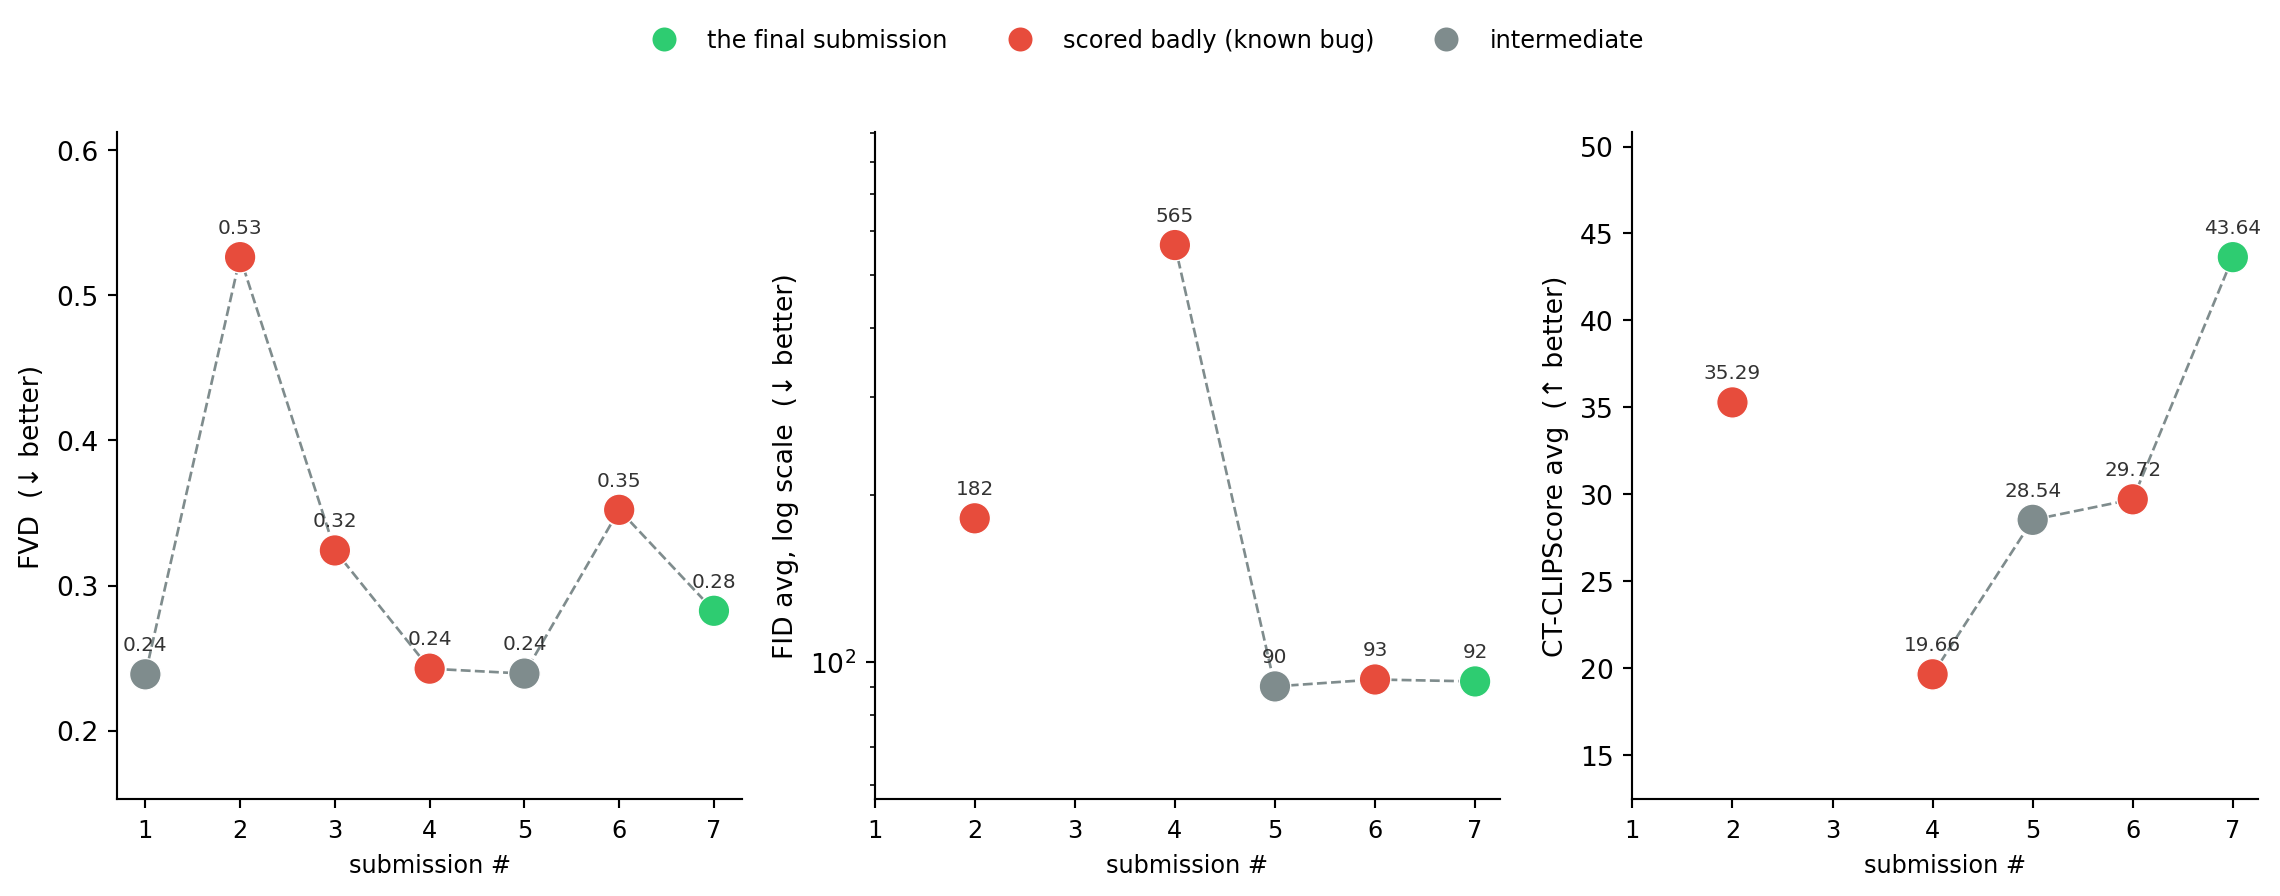
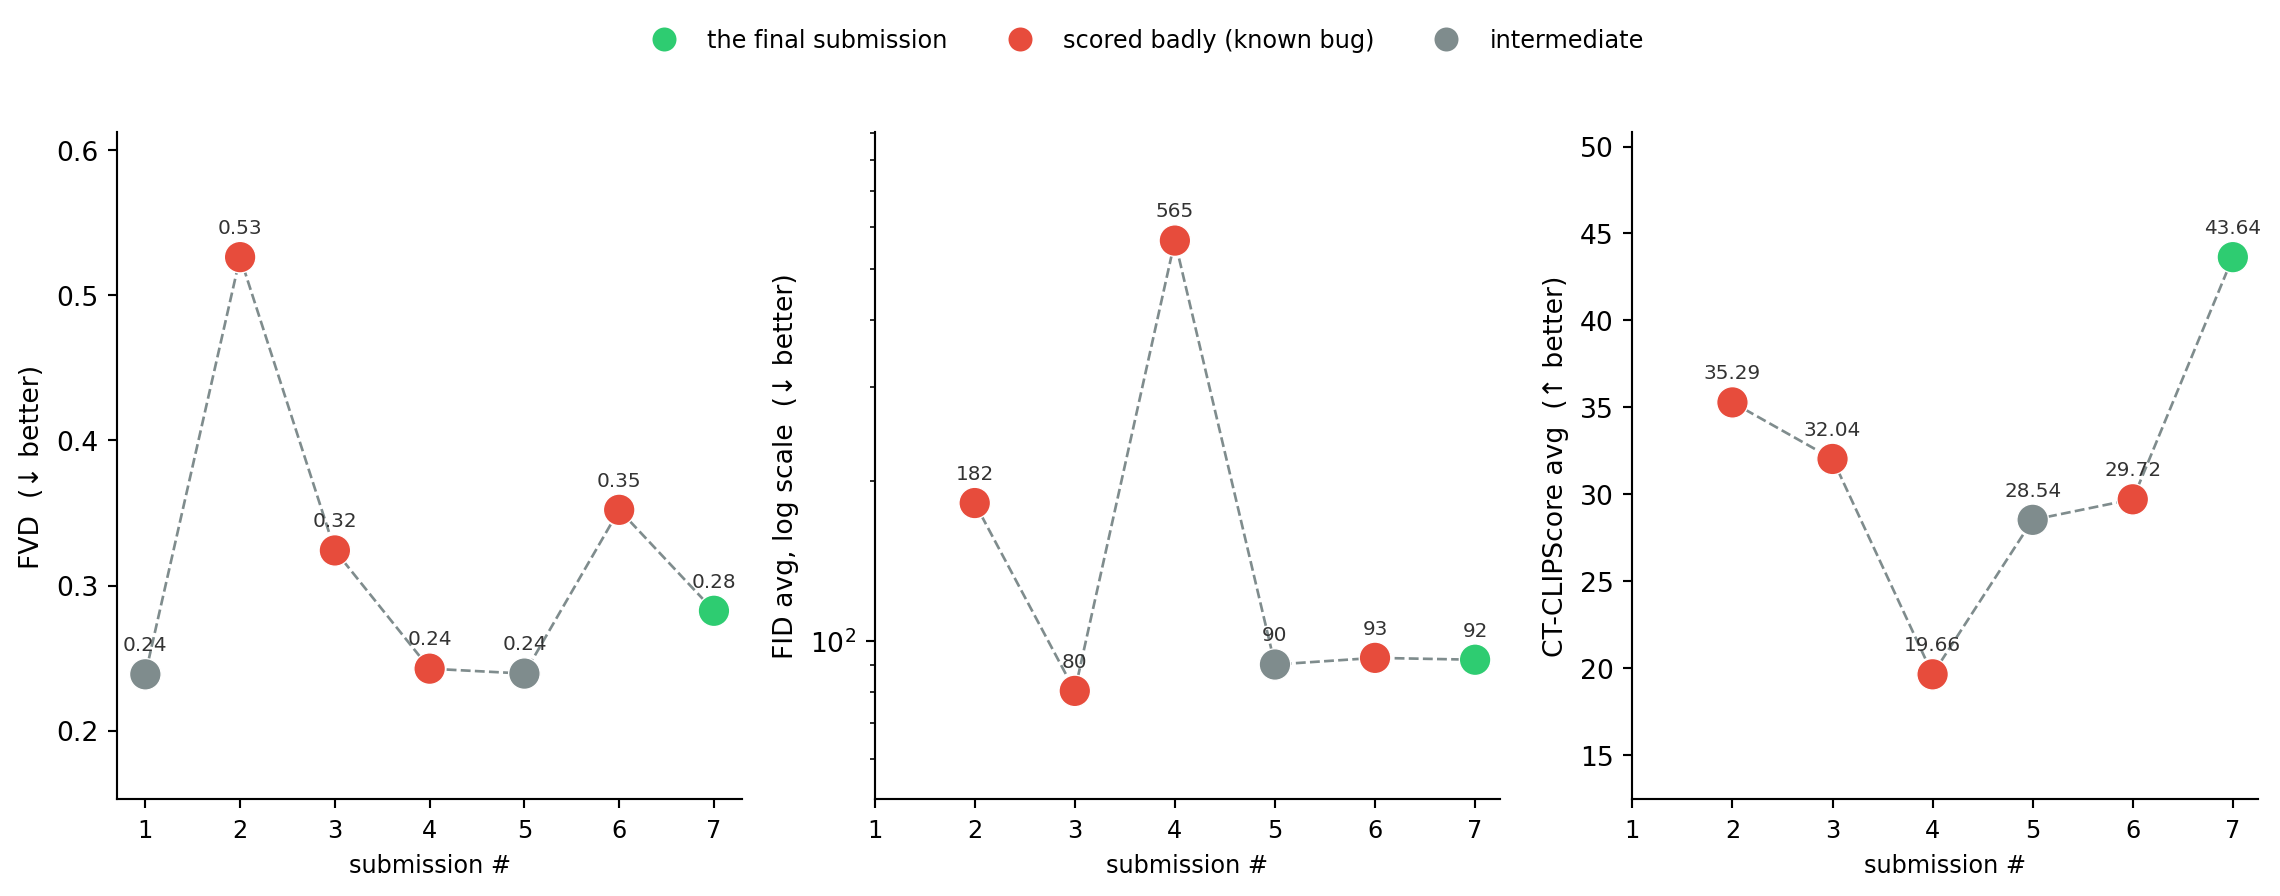
Fill in the last missing data point: submission 3 (Dockerfile ENV bug) real FID/CLIP

diff --git a/docs/index.html b/docs/index.html
@@ -443,7 +443,7 @@ Figure&nbsp;3: All three challenge metrics across the submission cycle’s real,
 </div>
 </div>
 </div>
-<div id="7c27def7" class="cell" data-execution_count="4">
+<div id="88e98545" class="cell" data-execution_count="4">
 <div class="cell-output cell-output-display cell-output-markdown" data-execution_count="4">
 <table class="caption-top table table-sm table-striped small">
 <colgroup>
@@ -481,8 +481,8 @@ Figure&nbsp;3: All three challenge metrics across the submission cycle’s real,
 <td style="text-align: right;">3</td>
 <td style="text-align: left;">Recovered but still buggy</td>
 <td style="text-align: right;">0.32</td>
-<td style="text-align: left;">—</td>
-<td style="text-align: left;">—</td>
+<td style="text-align: left;">80.50</td>
+<td style="text-align: left;">32.04</td>
 </tr>
 <tr class="even">
 <td style="text-align: right;">4</td>
@@ -516,7 +516,7 @@ Figure&nbsp;3: All three challenge metrics across the submission cycle’s real,
 </table>
 </div>
 </div>
-<p>Green = the actual final submission (the one that shipped); red = a run that scored badly for a real, identified reason; grey = intermediate reference points. FID and CLIP weren’t logged for the very first (pre-cycle) and the Dockerfile-ENV-mismatch runs, so those two panels are missing points 1 and 3.</p>
+<p>Green = the actual final submission (the one that shipped); red = a run that scored badly for a real, identified reason; grey = intermediate reference points. FID and CLIP weren’t logged for the very first (pre-cycle) run, so those two panels are missing point 1.</p>
 <p>Three things worth reading off this directly rather than from FVD alone. First, submission 6 (CLIP safety net silently broken) vs.&nbsp;submission 5 (session best): FVD alone makes 6 look like a step backward, but FID barely moved (90.2 → 92.9) and CLIP actually <em>improved slightly</em> (28.5 → 29.7) — the regression is concentrated in FVD specifically, consistent with the root cause (a diagnostic, feature-space-distribution issue) rather than a wholesale quality collapse. Second, and more strikingly: submission 4 (<code>xy=1.0mm</code>) has the single best FVD of the entire cycle (0.243) <em>and</em> by far the worst FID (565, roughly 6x every other run) — a genuine case of two metrics actively disagreeing, not just one being noisier than the other; that one’s explained below. Third: submission 7, the one that actually shipped once the offline-tokenizer bug was fixed, shows the CLIP safety net finally doing real work — CLIP avg jumps to 43.6 (T2I specifically to 49.4, well above every earlier run), while FVD (0.283) lands between the session best and the broken run, and FID (92.1) stays essentially flat. The safety net was never free — it costs some FVD relative to pure jerk-median selection with no quality floor — but it’s now provably doing what it was built to do, which submission 6 never demonstrated at all.</p>
 <p><strong>The 256-frame ceiling.</strong> Our training data preprocessing center-crops every volume to 256 slices. That’s an invisible hard boundary: whatever the autoregressive model draws past 256 frames, it has <em>never seen anything like it</em> in training, regardless of prompt. An early real submission scored badly (FVD 0.53) for exactly this reason — nothing wrong with the model, we just let generation run past the one boundary that mattered. Capping <code>max_blocks</code> at 16 (16×16 = 256 frames) fixed it immediately.</p>
 <p><strong>Declared vs.&nbsp;conditioned spacing.</strong> This is a post-processing decoupling, not a learned conditioning branch — the model itself has no spacing input. We found, empirically, that treating the generation as a <em>coarser</em> z-spacing (3.0mm) than what we actually declare in the output header (1.5mm, or an adaptive value computed to keep every volume’s block at a fixed 384mm physical extent) nudges it toward more anatomically varied output — real content doesn’t get proportionally rescaled just because we relabel the header, so this is a legitimate (if slightly hacky) way to push generation out of a repetitive part of its learned distribution. This one small decoupling outperformed every geometry variant we tried against the actual challenge FID/FVD metrics.</p>
